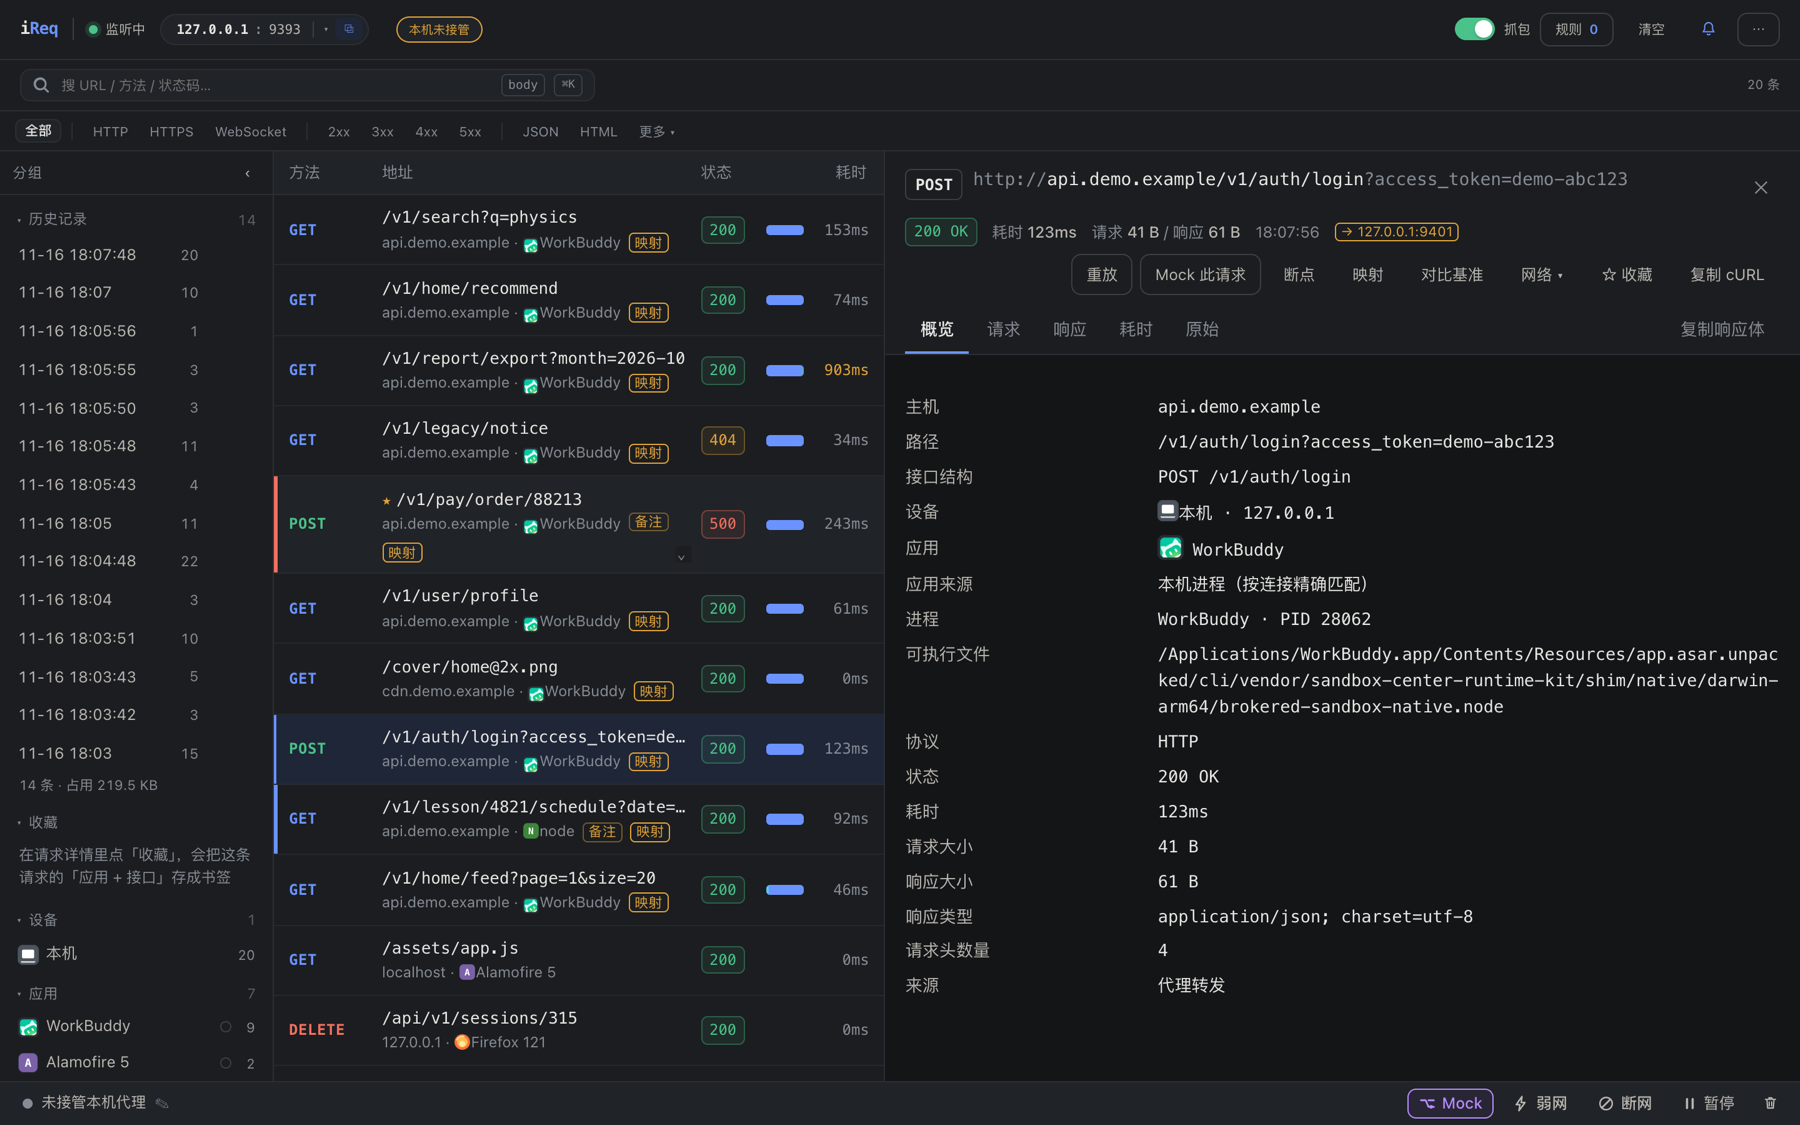
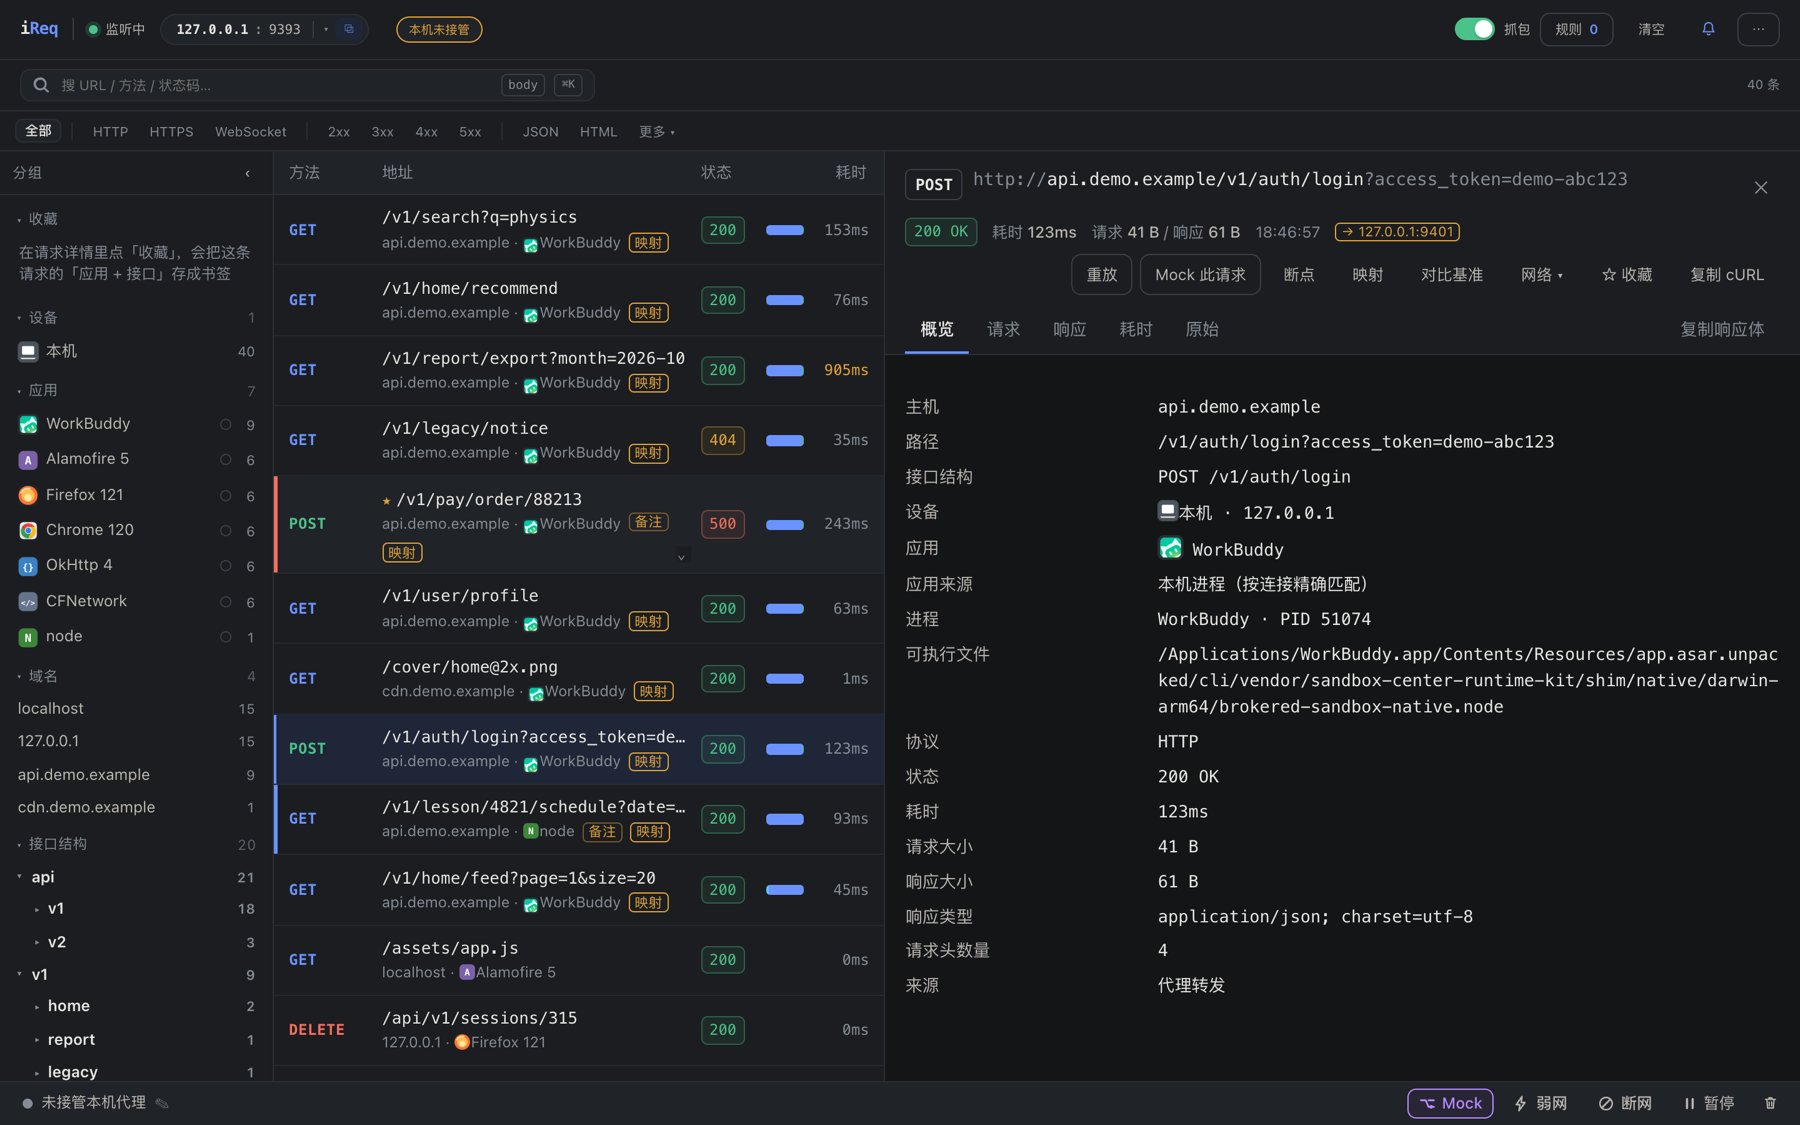
style: 历史记录移到侧栏最下面并默认收起
低频入口不该占首屏：历史记录挪到设备 / 应用 / 域名 / 接口结构之后，
默认收起，只露一行标题带条数；展开状态照样记在本地下次保持。
折叠状态换 reqlite-side-closed-v2 键（默认值含 history）做一次性迁移，
免得老用户本地存的「展开」把它顶开；分组上加一条分隔线，和上面区分开。

check-sidebar 补两条断言：排最后 + 默认收起、展开后能见到归档行。
README 截图随版重拍。

Changed region(s): [[0.0, 0.1867, 0.1556, 0.9644], [0.7156, 0.1867, 0.8089, 0.2178]]

diff --git a/public/app.js b/public/app.js
@@ -93,7 +93,10 @@ const S = {
   historyStats: { count: 0, bytes: 0 },
   historyView: null,
   historyRenaming: null,
-  closedGroups: new Set(JSON.parse(localStorage.getItem('reqlite-side-closed') || '[]')),
+  /* 侧栏折叠态。历史记录是低频入口：默认收起、排在侧栏最下面，
+   * 所以默认值里带 'history'；换 -v2 键做一次性迁移，免得老用户本地存的
+   * 「展开」把它又顶开（其它分组的折叠状态会重置一次，代价可接受）。 */
+  closedGroups: new Set(JSON.parse(localStorage.getItem('reqlite-side-closed-v2') || '["history"]')),
   /* 接口结构树：与默认展开态相反的目录 key（顶层默认展开，深层默认收起） */
   routeToggled: new Set(JSON.parse(localStorage.getItem('reqlite-route-toggled') || '[]')),
 };
@@ -1595,13 +1598,13 @@ function renderSide() {
   // 上面的收藏 / 设备分组不再展示，应用分组本身始终显示全部应用
   const appChecked = S.filter.app.length > 0;
   const groups = [];
-  // 历史记录放最上面：清空之后第一件想做的事就是「刚才那些还在吗」
-  groups.push(historyGroupHtml());
   if (!appChecked) groups.push(bookmarkGroupHtml());
   for (const section of FACET_SECTIONS) {
     if (appChecked && section.key === 'devices') continue;
     groups.push(facetGroupHtml(section));
   }
+  // 历史记录是低频入口：默认收起并排在最下面，别把高频的域名 / 接口挤出首屏
+  groups.push(historyGroupHtml());
   body.innerHTML = groups.join('');
   if (S.historyRenaming) focusHistInput();
 }
@@ -7805,7 +7808,7 @@ function bind() {
       const key = toggle.dataset.toggle;
       if (S.closedGroups.has(key)) S.closedGroups.delete(key);
       else S.closedGroups.add(key);
-      localStorage.setItem('reqlite-side-closed', JSON.stringify([...S.closedGroups]));
+      localStorage.setItem('reqlite-side-closed-v2', JSON.stringify([...S.closedGroups]));
       const group = toggle.closest('.sgroup');
       if (group) group.classList.toggle('closed');
       return;

diff --git a/tools/check-sidebar.js b/tools/check-sidebar.js
@@ -34,6 +34,20 @@ const { seedFlows } = require('./_seed');
   ]);
   checks.push(['四个数据维度都有条目', ['设备', '应用', '域名', '接口结构'].every((t) => groups.find((g) => g.title === t)?.items > 0)]);
 
+  // 历史记录是低频入口：排在最后、默认收起（展开后要把状态记住）
+  const histLast = groups.length > 0 && groups[groups.length - 1].title === '历史记录';
+  const histClosed = await page.$eval('.sgroup.hg', (e) => e.classList.contains('closed')).catch(() => false);
+  checks.push(['历史记录排最后且默认收起', histLast && histClosed, `last=${groups[groups.length - 1] && groups[groups.length - 1].title} closed=${histClosed}`]);
+  await page.click('[data-toggle="history"]');
+  await page.waitForTimeout(250);
+  const histOpenRows = await page.$$eval('.sgroup.hg .hg-row', (els) => els.filter((e) => e.offsetParent !== null).length);
+  const histOpen = await page.$eval('.sgroup.hg', (e) => !e.classList.contains('closed'));
+  const stored = await page.evaluate(() => localStorage.getItem('reqlite-side-closed-v2'));
+  checks.push(['展开历史记录能看到归档行', histOpen && histOpenRows > 0 && String(stored).includes('history') === false,
+    `open=${histOpen} rows=${histOpenRows} stored=${stored}`]);
+  await page.click('[data-toggle="history"]');
+  await page.waitForTimeout(200);
+
   const hosts = await page.$$eval('[data-facet="host"]', (els) =>
     els.slice(0, 3).map((e) => e.textContent.trim().replace(/\s+/g, ' '))
   );

diff --git a/public/style.css b/public/style.css
@@ -7027,3 +7027,11 @@ body.resizing-v * {
   text-overflow: clip;
   overflow-wrap: anywhere;
 }
+
+/* ------------------------------------------- 历史记录：侧栏最下面 + 默认收起 */
+/* 低频入口：默认只露一行标题，展开才把归档列出来；放在最后不挤占高频分组 */
+.sgroup.hg {
+  margin-top: 6px;
+  padding-top: 3px;
+  border-top: 1px solid var(--border);
+}

diff --git a/docs/feature-matrix.md b/docs/feature-matrix.md
@@ -23,7 +23,7 @@
 | 响应对比 | 重放 vs 原请求，JSON 按结构比、文本按行比 |
 | 弱网 / 断网 / 超时 | 按规则命中，实时切断存量隧道 |
 | 搜正文、按列排序 | 搜索范围可扩到 body；状态 / 耗时 / 大小可排序 |
-| 会话（历史记录） | 清空留档、回看、改名、导出 HAR / JSON |
+| 会话（历史记录） | 清空留档、回看、改名、导出 HAR / JSON；入口在侧栏最下面、默认收起，不挤占高频分组 |
 | HAR 导出 | HAR 1.2，含扩展字段，可直接给别的工具看 |
 | 多语言、精简顶栏、命令面板 | ⌘K 既能搜请求也能执行命令 |
 | 域名映射 | 只换「连哪台机器」：URL / Host 头 / SNI 仍是原域名，支持 `*` 通配与路径前缀 |
